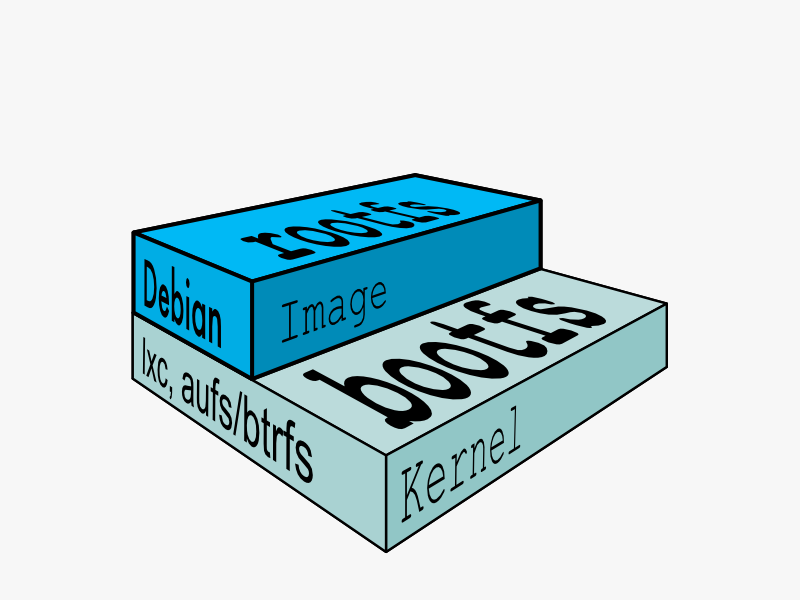
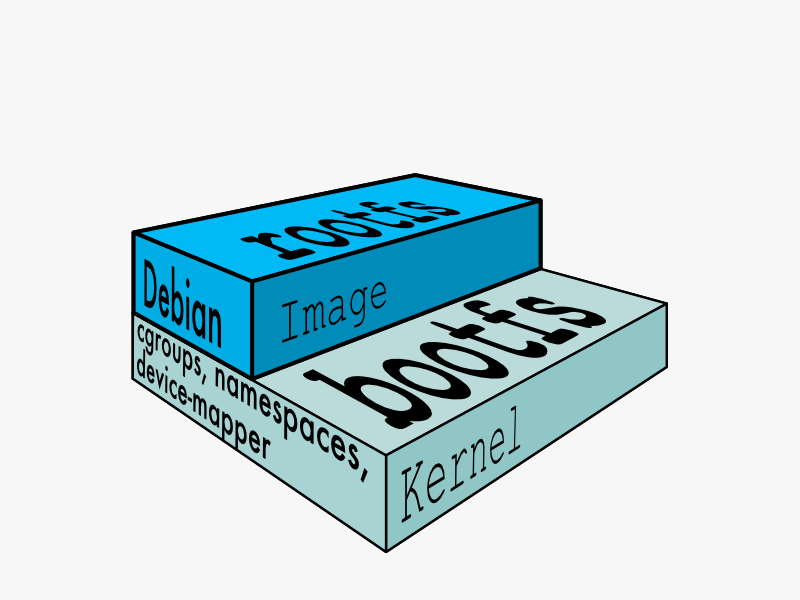
Fix #2115 Clean AUFS references. Also fixes some links to client libraries and mongo example.

Changed region(s): [[0.1562, 0.54, 0.4688, 0.81]]

diff --git a/github/docker/master/docs/sources/installation/ubuntulinux.rst b/github/docker/master/docs/sources/installation/ubuntulinux.rst
@@ -7,11 +7,6 @@
 Ubuntu Linux
 ============
 
-.. warning::
-
-   These instructions have changed for 0.6. If you are upgrading from
-   an earlier version, you will need to follow them again.
-
 .. include:: install_header.inc
 
 Right now, the officially supported distribution are:
@@ -19,10 +14,10 @@ Right now, the officially supported distribution are:
 - :ref:`ubuntu_precise`
 - :ref:`ubuntu_raring`
 
-Docker has the following dependencies
+Docker has the following dependencies (read more in :ref:`kernel`):
 
-* Linux kernel 3.8 (read more about :ref:`kernel`)
-* AUFS file system support (we are working on BTRFS support as an alternative)
+* Linux kernel 3.8 
+* Device-mapper module
 
 Please read :ref:`ufw`, if you plan to use `UFW (Uncomplicated
 Firewall) <https://help.ubuntu.com/community/UFW>`_
@@ -42,12 +37,12 @@ Dependencies
 
 Due to a bug in LXC, docker works best on the 3.8 kernel. Precise
 comes with a 3.2 kernel, so we need to upgrade it. The kernel you'll
-install when following these steps comes with AUFS built in. We also
-include the generic headers to enable packages that depend on them,
-like ZFS and the VirtualBox guest additions. If you didn't install the
-headers for your "precise" kernel, then you can skip these headers for
-the "raring" kernel. But it is safer to include them if you're not
-sure.
+install when following these steps comes with device-mapper built
+in. We also include the generic headers to enable packages that depend
+on them, like ZFS and the VirtualBox guest additions. If you didn't
+install the headers for your "precise" kernel, then you can skip these
+headers for the "raring" kernel. But it is safer to include them if
+you're not sure.
 
 
 .. code-block:: bash
@@ -63,8 +58,7 @@ sure.
 Installation
 ------------
 
-.. warning::
-
+.. versionchanged:: v0.6
    These instructions have changed for 0.6. If you are upgrading from
    an earlier version, you will need to follow them again.
 
@@ -106,13 +100,19 @@ Ubuntu Raring 13.04 (64 bit)
 Dependencies
 ------------
 
-**AUFS filesystem support**
+.. versionchanged:: v0.7
+   Starting in 0.7 you no longer need to add support for AUFS.
+   We now use the device-mapper module instead, and this module
+   is included with kernels since kernel version 2.6
 
-Ubuntu Raring already comes with the 3.8 kernel, so we don't need to install it. However, not all systems
-have AUFS filesystem support enabled, so we need to install it.
+Ubuntu Raring already comes with the 3.8 kernel, so we don't need to
+install it. However, not all systems have AUFS filesystem support
+enabled, so if you're on a Docker version before 0.7, then we need to
+install it.
 
 .. code-block:: bash
 
+   # Only required for versions before v0.7
    sudo apt-get update
    sudo apt-get install linux-image-extra-`uname -r`
 
@@ -122,8 +122,9 @@ Installation
 
 Docker is available as a Debian package, which makes installation easy.
 
-*Please note that these instructions have changed for 0.6. If you are upgrading from an earlier version, you will need
-to follow them again.*
+*Please note that these instructions have changed for 0.6. If you are
+upgrading from an earlier version, you will need to follow them
+again.*
 
 .. code-block:: bash
 
@@ -160,8 +161,8 @@ Verify it worked
 Docker and UFW
 ^^^^^^^^^^^^^^
 
-Docker uses a bridge to manage containers networking, by default UFW
-drop all `forwarding`, a first step is to enable forwarding:
+Docker uses a bridge to manage container networking, and by default
+UFW drops all `forwarding`. A first step is to enable forwarding:
 
 .. code-block:: bash
 
@@ -178,12 +179,4 @@ Then reload UFW:
 
    sudo ufw reload
 
-
-UFW's default set of rules denied all `incoming`, so if you want to be
-able to reach your containers from another host, you should allow
-incoming connections on the docker port (default 4243):
-
-.. code-block:: bash
-
-   sudo ufw allow 4243/tcp
 

diff --git a/github/docker/master/docs/sources/installation/kernel.rst b/github/docker/master/docs/sources/installation/kernel.rst
@@ -11,7 +11,7 @@ In short, Docker has the following kernel requirements:
 
 - Linux version 3.8 or above.
 
-- `AUFS support <http://aufs.sourceforge.net/>`_.
+- `Device Mapper support <http://www.sourceware.org/dm/>`_.
 
 - Cgroups and namespaces must be enabled.
 
@@ -48,15 +48,17 @@ detects something older than 3.8.
 See issue `#407 <https://github.com/dotcloud/docker/issues/407>`_ for details.
 
 
-AUFS support
-------------
+Device Mapper support
+---------------------
 
-Docker currently relies on AUFS, an unioning filesystem.
-While AUFS is included in the kernels built by the Debian and Ubuntu
-distributions, is not part of the standard kernel. This means that if
-you decide to roll your own kernel, you will have to patch your
-kernel tree to add AUFS. The process is documented on
-`AUFS webpage <http://aufs.sourceforge.net/>`_.
+The `Device Mapper <http://www.sourceware.org/dm/>`_ replaces the
+previous Docker dependency on AUFS and has been in the kernel since
+2.6.9, so the device-mapper module is more broadly-supported across
+Linux distributions. Docker uses `thin-provisioning
+<https://github.com/mirrors/linux/blob/master/Documentation/device-mapper/thin-provisioning.txt>`_
+to provide a :ref:`unioning file system <ufs_def>`. If you'd like to
+check for the presence of the device-mapper module, please see the
+`LVM-HOWTO. <http://www.tldp.org/HOWTO/LVM-HOWTO/builddmmod.html>`_
 
 
 Cgroups and namespaces
@@ -69,7 +71,7 @@ to run LXC containers. Note that 2.6.32 has some documented issues regarding
 network namespace setup and teardown; those issues are not a risk if you
 run containers in a private environment, but can lead to denial-of-service
 attacks if you want to run untrusted code in your containers. For more details,
-see `[LP#720095 <https://bugs.launchpad.net/ubuntu/+source/linux/+bug/720095>`_.
+see `LP#720095 <https://bugs.launchpad.net/ubuntu/+source/linux/+bug/720095>`_.
 
 Kernels 2.6.38, and every version since 3.2, have been deployed successfully
 to run containerized production workloads. Feature-wise, there is no huge

diff --git a/github/docker/master/docs/sources/api/remote_api_client_libraries.rst b/github/docker/master/docs/sources/api/remote_api_client_libraries.rst
@@ -3,14 +3,18 @@
 :keywords: API, Docker, index, registry, REST, documentation, clients, Python, Ruby, Javascript, Erlang, Go
 
 
+.. _remote_api_client_libs:
+
 ==================================
 Docker Remote API Client Libraries
 ==================================
 
 These libraries have not been tested by the Docker Maintainers for
-compatibility. Please file issues with the library owners.  If you
-find more library implementations, please list them in Docker doc bugs
-and we will add the libraries here.
+compatibility with the :doc:`docker_remote_api`. Please file issues
+with the library owners.  If you find more library implementations,
+please list them in `Docker doc issues
+<https://github.com/dotcloud/docker/issues?direction=desc&labels=doc&sort=updated&state=open>`_
+or make a pull request, and we will add the libraries here.
 
 +----------------------+----------------+--------------------------------------------+
 | Language/Framework   | Name           | Repository                                 |

diff --git a/github/docker/master/docs/sources/installation/gentoolinux.rst b/github/docker/master/docs/sources/installation/gentoolinux.rst
@@ -25,6 +25,11 @@ properly installing and using the overlay can be found in `the overlay README
 Installation
 ^^^^^^^^^^^^
 
+.. versionchanged:: v0.7
+   This section may need to be updated since Docker no longer depends
+   on AUFS. Please see :ref:`kernel`.
+
+
 The package should properly pull in all the necessary dependencies and prompt
 for all necessary kernel options.  For the most straightforward installation
 experience, use ``sys-kernel/aufs-sources`` as your kernel sources.  If you

diff --git a/github/docker/master/docs/sources/installation/archlinux.rst b/github/docker/master/docs/sources/installation/archlinux.rst
@@ -19,6 +19,10 @@ The lxc-docker-git package will build from the current master branch.
 Dependencies
 ------------
 
+.. versionchanged:: v0.7
+   This section may need to be updated since Docker no longer depends
+   on AUFS. Please see :ref:`kernel`.
+
 Docker depends on several packages which are specified as dependencies in
 either AUR package.
 

diff --git a/github/docker/master/docs/sources/api/docker_remote_api.rst b/github/docker/master/docs/sources/api/docker_remote_api.rst
@@ -22,6 +22,7 @@ Docker Remote API
 - Since API version 1.2, the auth configuration is now handled client
   side, so the client has to send the authConfig as POST in
   /images/(name)/push
+- Known client libraries may be found in :ref:`remote_api_client_libs`
 
 2. Versions
 ===========

diff --git a/github/docker/master/docs/sources/examples/hello_world.rst b/github/docker/master/docs/sources/examples/hello_world.rst
@@ -178,4 +178,4 @@ you could skip to any of the other examples:
 * :ref:`running_ssh_service`
 * :ref:`running_couchdb_service`
 * :ref:`postgresql_service`
-* :ref:`mongodb`
+* :ref:`mongodb_image`

diff --git a/github/docker/master/docs/sources/api/index.rst b/github/docker/master/docs/sources/api/index.rst
@@ -14,5 +14,5 @@ Your programs and scripts can access Docker's functionality via these interfaces
   registry_api
   index_api
   docker_remote_api
-
+  remote_api_client_libraries
 
